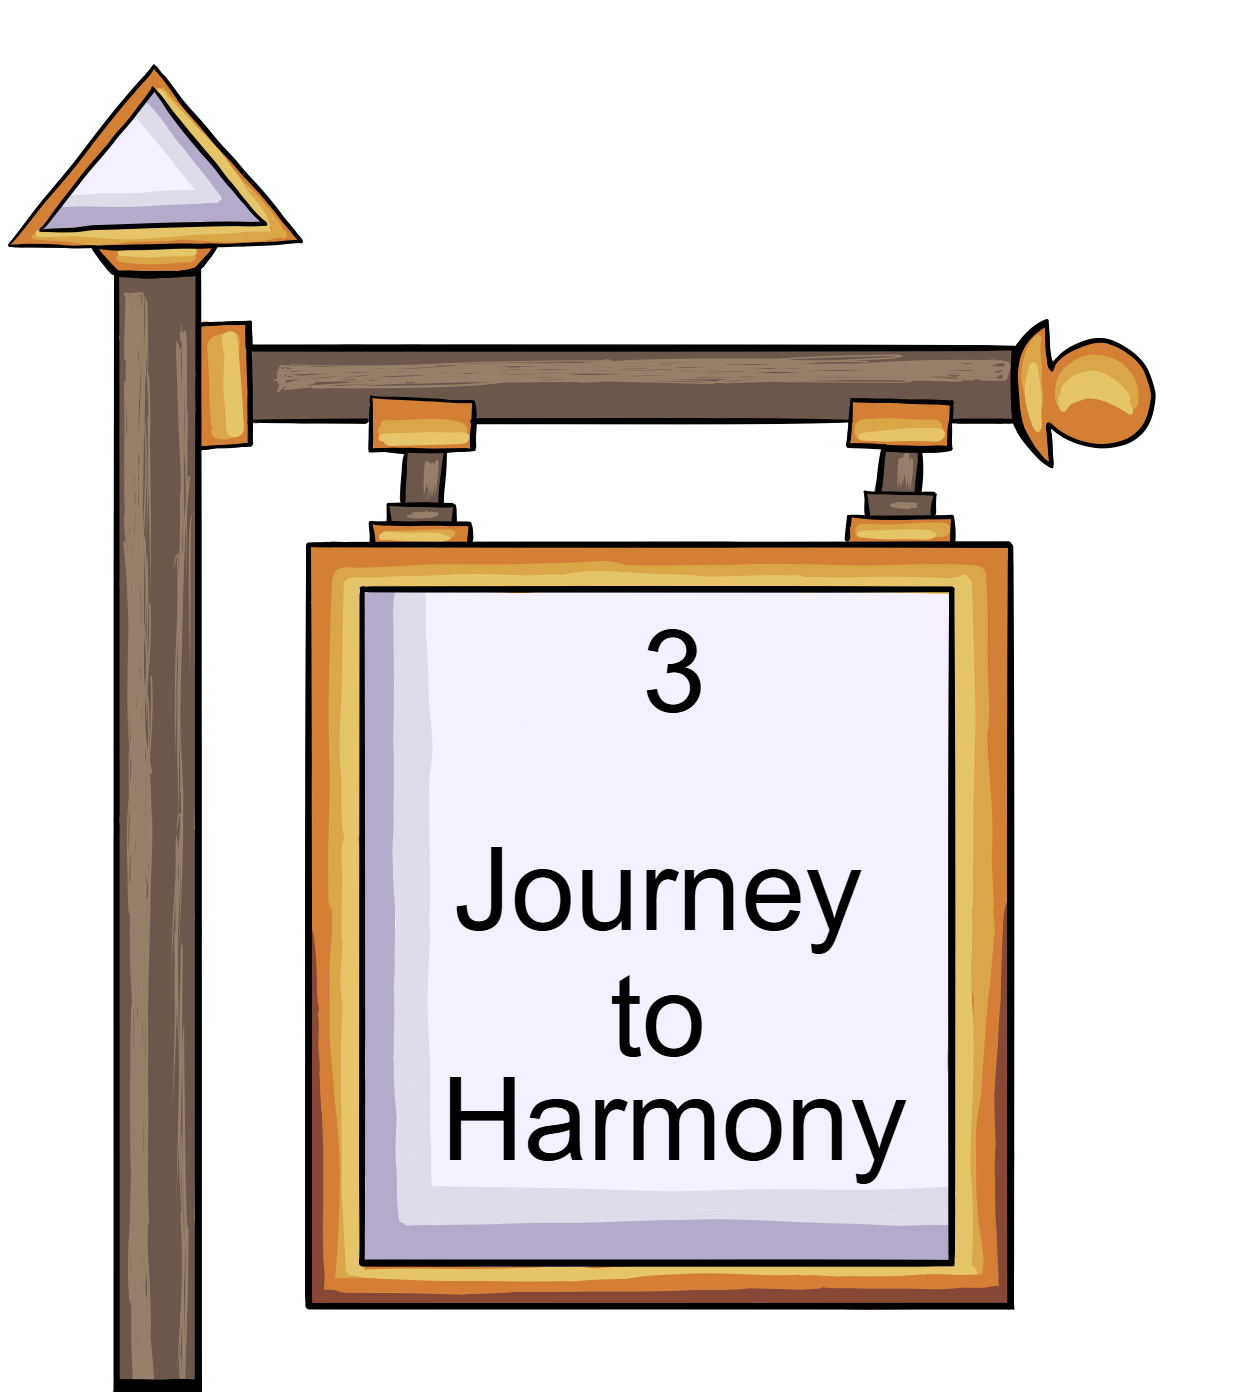
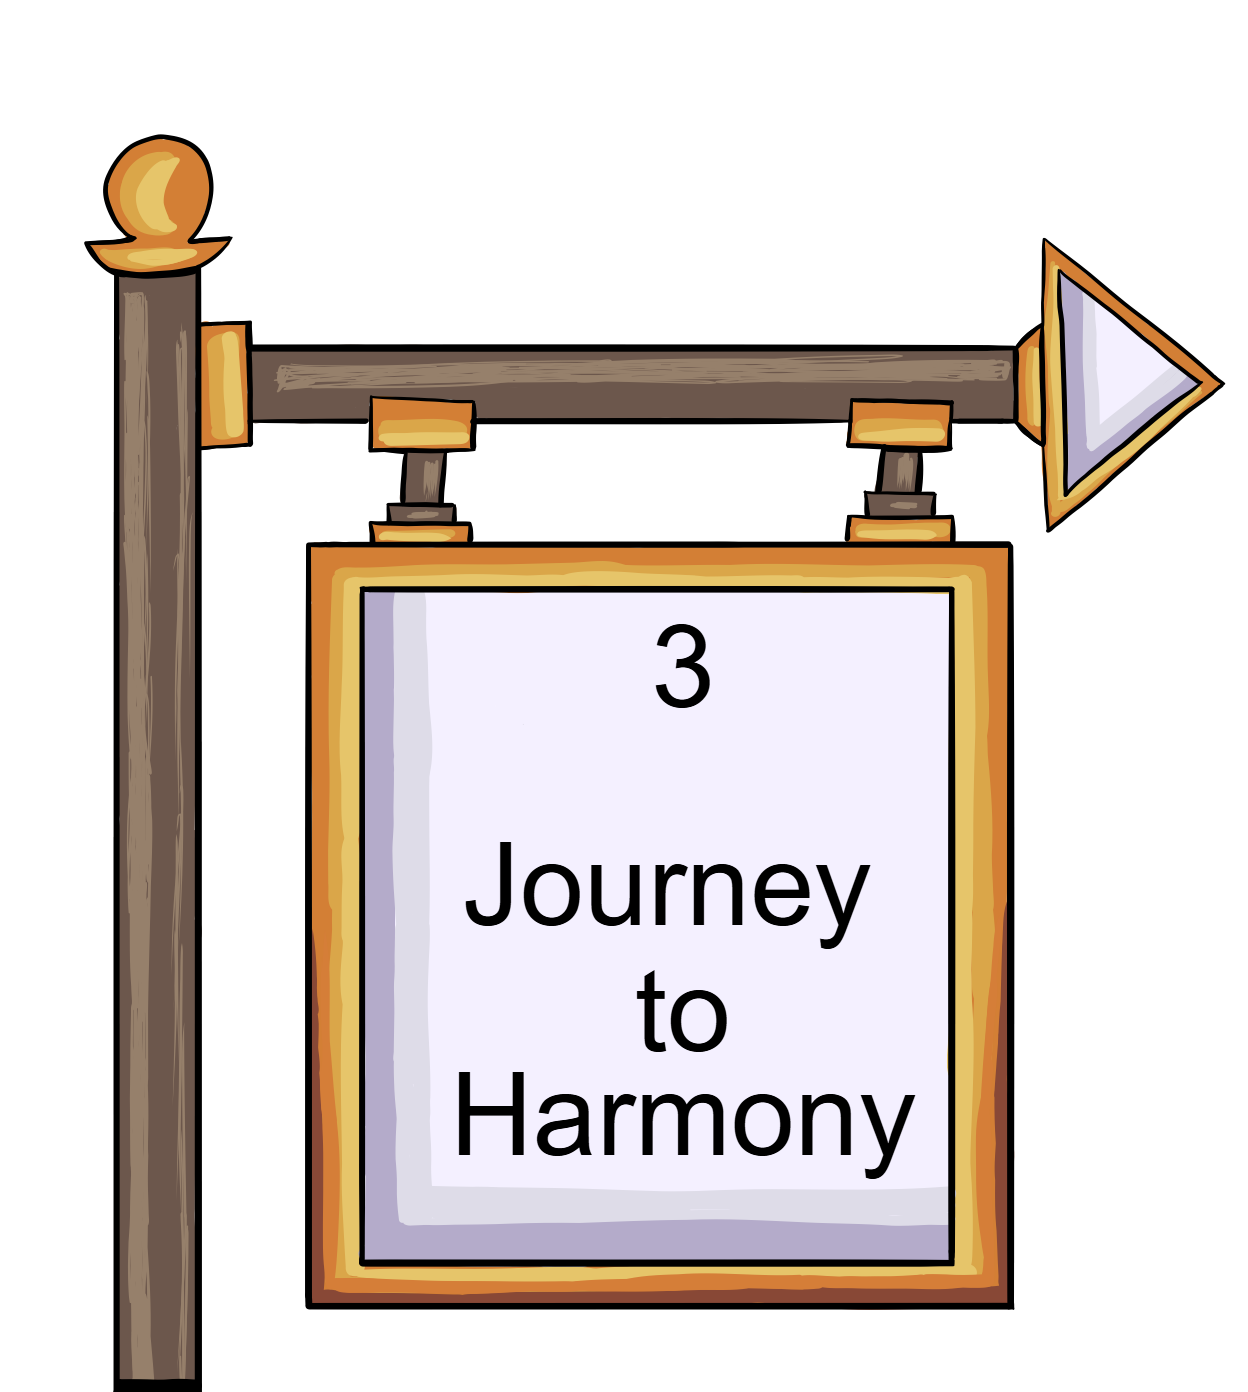
fixed the signboard assets

diff --git a/js/map/mapScene.js b/js/map/mapScene.js
@@ -120,13 +120,7 @@ const SIGN_POS = {
   foundations: { x: -320, y: 40 },
   harmony: { x: 320, y: 40 },
 };
-const SIGN_SIZE = { w: 208, h: 232 };
-const SIGN_SIZE_OVERRIDES = {
-  harmony: { w: 330, h: 360 },
-  foundations: { w: 330, h: 360 },
-  melody: { w: 330, h: 360 },
-  playground: { w: 330, h: 360 },
-};
+const SIGN_SIZE = { w: 330, h: 360 };
 
 function drawFeetAnchored(ctx, image, worldX, worldY, w, h, cameraX, cameraY, viewWidth, viewHeight, label) {
   const screenX = worldX - cameraX;
@@ -153,14 +147,7 @@ function drawFeetAnchored(ctx, image, worldX, worldY, w, h, cameraX, cameraY, vi
   }
 }
 
-const SIGN_LABELS = {
-  foundations: 'Foundations',
-  melody: 'Melody',
-  harmony: 'Harmony',
-  playground: 'Instrument Playground',
-};
-
-const SIGN_PROGRESS_OFFSET_Y = 60; 
+const SIGN_PROGRESS_OFFSET_Y = 60;
 
 function getSectionProgress(section) {
   let total = 0;
@@ -188,7 +175,7 @@ const SIGN_PHASE_OFFSETS = {
 
 function drawSign(ctx, cameraX, cameraY, viewWidth, viewHeight, section) {
   const pos = SIGN_POS[section];
-  const size = SIGN_SIZE_OVERRIDES[section] || SIGN_SIZE;
+  const size = SIGN_SIZE;
   drawFeetAnchored(
     ctx, SIGN_IMAGES[section], pos.x, pos.y, size.w, size.h,
     cameraX, cameraY, viewWidth, viewHeight, `${section} sign`

diff --git a/js/core/config.js b/js/core/config.js
@@ -1,8 +1,5 @@
 
-export const REFERENCE_VIEWPORT_WIDTH = 1600;
-export const REFERENCE_VIEWPORT_HEIGHT = 900;
-
-export const PANEL_SIZE = 900;      
+export const PANEL_SIZE = 900;
 export const NODES_PER_PANEL = 2;  
 
 export const SECTION_DIRECTION = {
